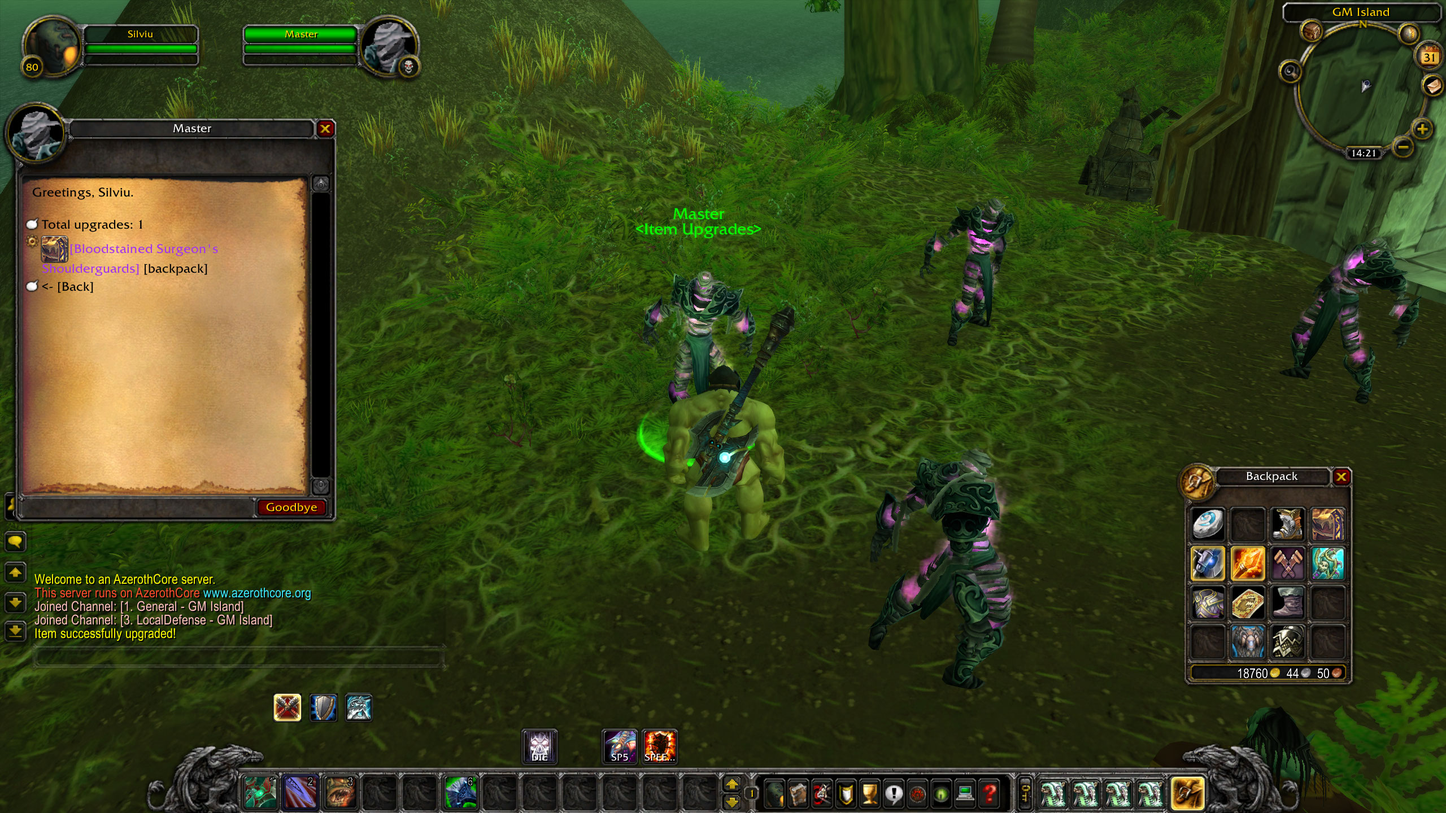
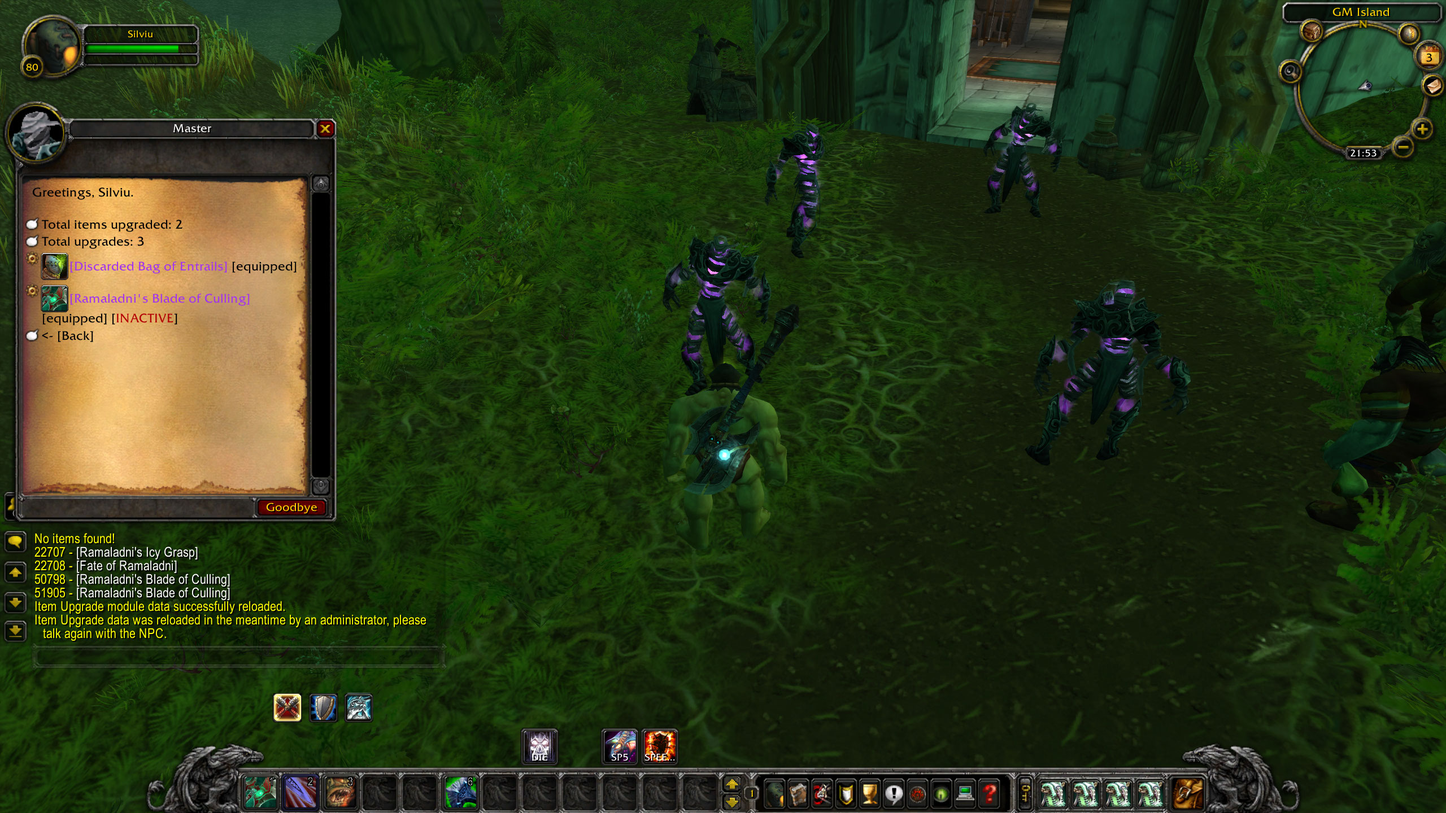
Add whitelist/blacklist possibility for item upgrades

diff --git a/README.md b/README.md
@@ -52,6 +52,14 @@ So let's say you want players to upgrade stamina by 5% for **FREE**, then you do
 
 There is some sample data already inserted in these tables.
 
+### Allowing and blacklisting items
+
+You can allow or blacklist certain items by using two tables:
+* **mod_item_upgrade_allowed_items** - if you add some entries to this table, then **ONLY** these items will be available for upgrade. This is useful when you want to exclude **ALL** items and only add a few that have the possibily to be upgraded.
+* **mod_item_upgrade_blacklisted_items** - every item that is added here will no longer be available for upgrading. This is useful when you want to add upgrade possibility to **ALL** items but simply exclude a few.
+
+These two tables have only one column **entry** which corresponds to the entry of the item (**item_template.entry**). You can have the same entry in both allowed and blacklisted tables, in which case the item will become **blacklisted**. If players already bought some upgrades for a certain item and then you decide to **blacklist** that item, then the upgrade will become **inactive** (it will show as inactive in the Upgraded items menu). The upgrade will then become **active** if you decide to remove the blacklist for the item.
+
 ## Ingame usage
 
 Use .npc add 200003 to spawn the Master Item Upgrade NPC. The rest is self explanatory.
